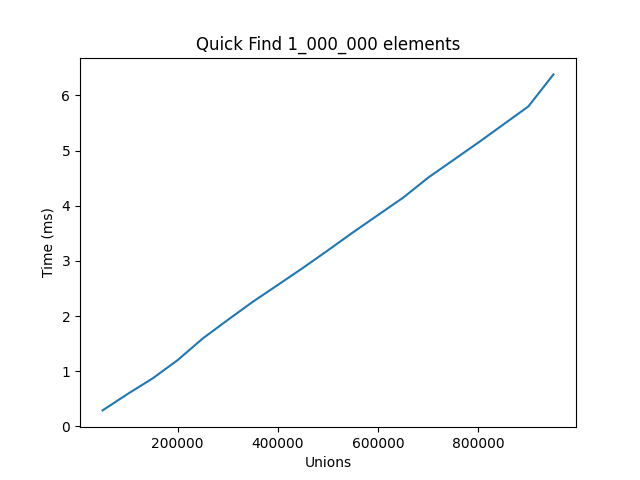
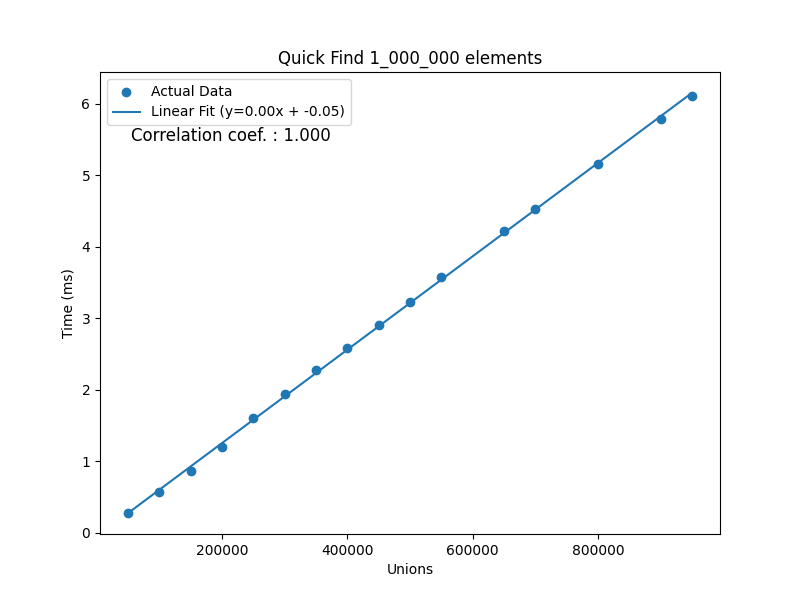
k-sum is now done.

diff --git a/src/App.java b/src/App.java
@@ -3,9 +3,11 @@ import src.uf.QuickFind;
 import src.uf.UnionFind;
 import src.uf.WeightedUnionFind;
 import src.Util;
+import src.ksum.ThreeSum;
+import src.ksum.ThreeSumCached;
 
 public class App {
-    final int SAMPLES = 1000;
+    final int SAMPLES = 30;
     int UF_SIZE = 2;
 
     /**
@@ -26,14 +28,14 @@ public class App {
         
         WeightedUnionFind wuf = new WeightedUnionFind(UF_SIZE);
         Double[] times = getQfTimesFixedSize(unions, wuf);
-        System.out.println("Graphing WUF FS 100_00");
+        System.out.println("\nGraphing WUF FS 100_00");
         plt = new Plotter("uf/FS100_000_WeightedUnionFind.png", "Unions", "Time (ms)", Plotter.Type.LINEAR,"Weighted Union Find 100_000 elements");
         plt.plot(unions, times);
         wuf = null;
 
         QuickFind qf = new QuickFind(UF_SIZE);
         times = getQfTimesFixedSize(unions, qf);
-        System.out.println("Graphing QF FS 100_00");
+        System.out.println("\nGraphing QF FS 100_00");
         plt = new Plotter("uf/FS100_000_QuickFind.png", "Unions", "Time (ms)", Plotter.Type.LINEAR,"Quick Find 100_000 elements");
         plt.plot(unions, times);
         qf = null;
@@ -42,7 +44,7 @@ public class App {
 
         /**
          * Get graphs for unions on 1_000_000 items.
-         */
+         
         this.UF_SIZE = 1_000_000;
         unions = new Integer[] { 50000, 100000, 150000, 200000, 250000, 300000,
                                 350000, 400000, 450000, 500000, 550000,
@@ -61,6 +63,38 @@ public class App {
         plt = new Plotter("uf/FS1_000_000_QuickFind.png", "Unions", "Time (ms)", Plotter.Type.LINEAR,"Quick Find 1_000_000 elements");
         plt.plot(unions, times);
         qf = null;
+        */
+    }
+
+    public void kSumRace() {
+        Plotter plt;
+
+        Integer[] sizes = { 100, 200, 300, 400, 500, 600,
+                            700, 800, 900, 1000};
+        Integer[] targets = Util.genIntArray(sizes.length);
+
+        ThreeSumCached tsc = new ThreeSumCached();
+        Double[] times = getksumTimes(sizes, tsc, targets);
+        System.out.println("\nGraphing cached 3-Sum Max of 1000");
+        plt = new Plotter("ksum/cached_1300.png", "Length", "Time (ms)", Plotter.Type.EXPONENTIAL,"Cached 3-Sum 1300 Max Elements.");
+        plt.plot(sizes, times);
+
+        ThreeSum ts = new ThreeSum();
+        times = getksumTimes(sizes, ts, targets);
+        System.out.println("\nGraphing brute force 3-Sum Max of 1000");
+        plt = new Plotter("ksum/brute_force_1300.png", "Length", "Time (ms)", Plotter.Type.EXPONENTIAL,"3-Sum Brute Force 1300 Max Elements.");
+        plt.plot(sizes, times);
+    }
+
+    public Double[] getksumTimes(Integer[] sizes, ThreeSum ts, Integer[] targets) {
+        int length = sizes.length;
+        Double[] times = new Double[length];
+
+        for (int i = 0; i < length; i++) {
+            Integer[] nums = Util.genIntArray(sizes[i]);
+            times[i] = measureKsumExecTime(ts, nums, targets[i]);
+        }
+        return times;
     }
 
     private Double[] getQfTimesFixedSize(Integer[] unions, UnionFind uf) {
@@ -71,13 +105,31 @@ public class App {
             uf.reset();
             Integer[][] pairs = Util.genXYPairs(unions[i], UF_SIZE);
 
-            times[i] = measureExecutionTime(uf, pairs);
+            times[i] = measureUfExecTime(uf, pairs);
         }
 
         return times;
     }
 
-    private double measureExecutionTime(UnionFind uf, Integer[][] pairs) {
+
+    private double measureKsumExecTime(ThreeSum ts, Integer[] nums, Integer target) {
+        double[] samples = new double[SAMPLES];
+        Timeit timer;
+
+        for (int x = 0; x < SAMPLES; x++) {
+            timer = new Timeit((args) -> {
+                Integer t = (Integer) args[1];
+                Integer [] n = (Integer[]) args[0];
+                ts.threeSum(n, t);
+            });
+            samples[x] = timer.measureMilis(nums, target);
+        }
+        return Util.sampleMean(samples);
+    }
+
+
+
+    private double measureUfExecTime(UnionFind uf, Integer[][] pairs) {
         double[] samples = new double[SAMPLES];
         Timeit timer;
 
@@ -93,6 +145,7 @@ public class App {
 
     public static void main(String[] args) {
         App app = new App();
-        app.qfRace();
+        // app.qfRace();
+        app.kSumRace();
     }
 }

diff --git a/src/scripts/plotter.py b/src/scripts/plotter.py
@@ -12,18 +12,13 @@ def plot(graph_path:str, x:list[float], y:list[float], x_label:str, y_label:str,
     Simple plot for list of x and y values.
     """
 
-    # Convert data to float arrays.
-    x = json.loads(x)
-    y = json.loads(y)
-
-
     # Get the 
     if plot_type == "Linear":
         slope, intercept, r_value = linear_regression(x, y)
         equation = f'Linear Fit (y={slope:.2f}x + {intercept:.2f})'
     elif plot_type == "Exponential":
         slope, intercept, r_value = power_law(x, y)
-        equation = f'Exponential Fit (y={a:.2f} * exp({b:.2f}x))'
+        equation = f'Exponential Fit (y={intercept:.2f} * x^{slope:.2f})'
     elif plot_type == "None":
         equation = None
         slope = None
@@ -35,7 +30,7 @@ def plot(graph_path:str, x:list[float], y:list[float], x_label:str, y_label:str,
     # Generate expected values
     expected_data = generate_expected_data(slope, intercept, x, plot_type)
 
-
+    print(equation)
 
     plt.figure(figsize=(8, 6))
     plt.scatter(x, y, label='Actual Data')
@@ -60,9 +55,9 @@ def generate_expected_data(slope: float, intercept:float,x: list[float], plot_ty
     accordintg the the type of plot, either linear or exponential.
     """
     if plot_type == "Linear":
-        return tuple([(slope*x_val)+intercept for x_val in x])
+        return [(slope*x_val)+intercept for x_val in x]
     elif plot_type == "Exponential":
-        return tuple([intercept*(x_val**slope) for x_val in x])
+        return [intercept*(x_val**slope) for x_val in x]
     else:
         return None
 
@@ -89,7 +84,7 @@ def power_law(x: list[float], y: list[float]) -> tuple[float, float, float]:
     a = 2**intercept  # 2 raised to the power of intercept
     b = slope
 
-    return tuple(b, a, coefficient)
+    return b, a, coefficient
 
 
 def dual_plot(graph_path, x1, y1,x2, y2, x_label, y_label, title) -> None:
@@ -99,8 +94,12 @@ def dual_plot(graph_path, x1, y1,x2, y2, x_label, y_label, title) -> None:
 def scatterplot(graph_path, x, y, x_label, y_label, title) -> None:
     pass
 
+def copiable_printout():
+    print()
+
 
 if __name__ == "__main__":
+
     argsl = len(sys.argv)
     graph_path = sys.argv[1]
     x = sys.argv[2]
@@ -110,6 +109,17 @@ if __name__ == "__main__":
     title = sys.argv[6]
     plot_type = sys.argv[7] 
 
-    print(f"{sys.argv} \n")
+    # Convert data to float arrays.
+    x = json.loads(x)
+    y = json.loads(y)
 
+    # print(f"{sys.argv} \n")
+    print("\n________________________________________________")
+    print(f"Creating plot for {x_label} versus {y_label}")
+    print("________________________________________________")
+    for xv, yv in zip(x, y):
+        print(f"X: {xv:.3f}\tY: {yv:.3f}")
+    print("________________________________________________")
+    print(f"Graph type: {plot_type}")
     plot(graph_path, x, y, x_label, y_label, title, plot_type)
+    print("________________________________________________")

diff --git a/src/uf/WeightedUnionFind.java b/src/uf/WeightedUnionFind.java
@@ -27,16 +27,14 @@ public class WeightedUnionFind extends UnionFind{
 
     /**
      * Find the root of a given element.
-     * Additionally, apply path compression.
      * @param a Node to find root of
      * @return
      */
     private int find(int a) {
-        if (a != S[a]) {
-            // S[a] = find(S[a]);
+        while (a != S[a]) {
             a = S[a];
         }
-        return S[a];
+        return a;
     }
 
     /**
@@ -47,18 +45,19 @@ public class WeightedUnionFind extends UnionFind{
      * @param b Node b
      */
     public void union(int a, int b) {
+
         int rootA = find(a);
         int rootB = find(b);
-    
-        if (rootA != rootB) {
-            if (heights[rootA] < heights[rootB]) {
-                S[rootA] = rootB;
-            } else if (heights[rootA] > heights[rootB]) {
-                S[rootB] = rootA;
-            } else {
-                S[rootB] = rootA;
-                heights[rootA]++;
-            }
+
+        if (rootA == rootB) {return;}
+
+        if (heights[rootA] < heights[rootB]) {
+            S[rootA] = rootB;
+        } else if (heights[rootA] > heights[rootB]) {
+            S[rootB] = rootA;
+        } else {
+            S[rootB] = rootA;
+            heights[rootA]++;
         }
     }
 

diff --git a/src/ksum/ThreeSum.java b/src/ksum/ThreeSum.java
@@ -1,0 +1,31 @@
+package src.ksum;
+
+import java.util.ArrayList;
+import java.util.List;
+
+
+
+public class ThreeSum {
+    TwoSum two;
+    public ThreeSum () {
+        two = new TwoSum();
+    }
+    
+    public List<int[]> threeSum(Integer [] nums, Integer target) {
+        List<int[]> result = new ArrayList<>();
+        for (int i = 0; i < nums.length; i++) {
+            for (int j = 0; j < nums.length; j++) {
+                for (int k = 0; k < nums.length; k++) {
+                    if (i==j || i == k || j== k) {
+                        continue;
+                    }
+
+                    if (nums[i] + nums [j] + nums [k] == 0) {
+                        result.add(new int[] {nums[i], nums[j], nums[k]});
+                    }
+                }   
+            }
+        }
+        return result;
+    }
+}

diff --git a/src/ksum/ThreeSumCached.java b/src/ksum/ThreeSumCached.java
@@ -1,0 +1,26 @@
+package src.ksum;
+
+import java.util.ArrayList;
+import java.util.List;
+
+public class ThreeSumCached extends ThreeSum{
+    public ThreeSumCached() {
+        super();
+    }
+    public List<int[]> threeSum(Integer [] nums, Integer target) {
+        List<int[]> result = new ArrayList<>();
+
+        for (int i = 0; i < nums.length; i++) {
+            int current = nums[i];
+            List<int[]> twoSumRes = this.two.twoSum(nums, target-current, i+1);
+
+            if(twoSumRes.isEmpty()) continue;
+
+            for (int[] pair : twoSumRes) {
+                int[] trip = {current, pair[0], pair[1]};
+                result.add(trip);
+            }
+        }
+        return result;
+    }
+}

diff --git a/src/ksum/TwoSum.java b/src/ksum/TwoSum.java
@@ -1,0 +1,23 @@
+package src.ksum;
+
+import java.util.ArrayList;
+import java.util.HashMap;
+import java.util.List;
+import java.util.Map;
+
+public class TwoSum {
+    public List<int[]> twoSum (Integer[] nums, Integer target, Integer start) {
+        List<int[]> result = new ArrayList<>();
+        Map<Integer, Integer> seen = new HashMap<>();
+        for (int i = start; i < nums.length; i++) {
+            int complement = target - nums[i];
+            if (seen.containsKey(complement)) {
+                int[] pair = {nums[seen.get(complement)], nums[i]};
+                result.add(pair);
+            }
+            seen.put(nums[i], i);
+        }
+
+        return result;
+    }
+}

diff --git a/src/Util.java b/src/Util.java
@@ -81,4 +81,20 @@ public class Util {
     
         return pairs;
     }
+
+    public static Integer[] genIntArray(int N) {
+        if (N < 0) {
+            throw new IllegalArgumentException("N and bound must be non-negative");
+        }
+    
+        Random rand = new Random(42); // Seed for reproducibility
+        Integer[] arr = new Integer[N];
+        for (int i = 0; i < N; i++) {
+            int x = rand.nextInt();
+    
+            arr[i] = x;
+        }
+    
+        return arr;
+    }
 }

diff --git a/src/uf/QuickFind.java b/src/uf/QuickFind.java
@@ -29,6 +29,9 @@ public class QuickFind extends UnionFind {
     public void union(int a, int b) {
         int idA = S[a];
         int idB = S[b];
+        
+        if(idA == idB){return;}
+
         for (int index = 0; index < size; index++) {
             if (S[index] == idA) {
                 S[index] = idB;
